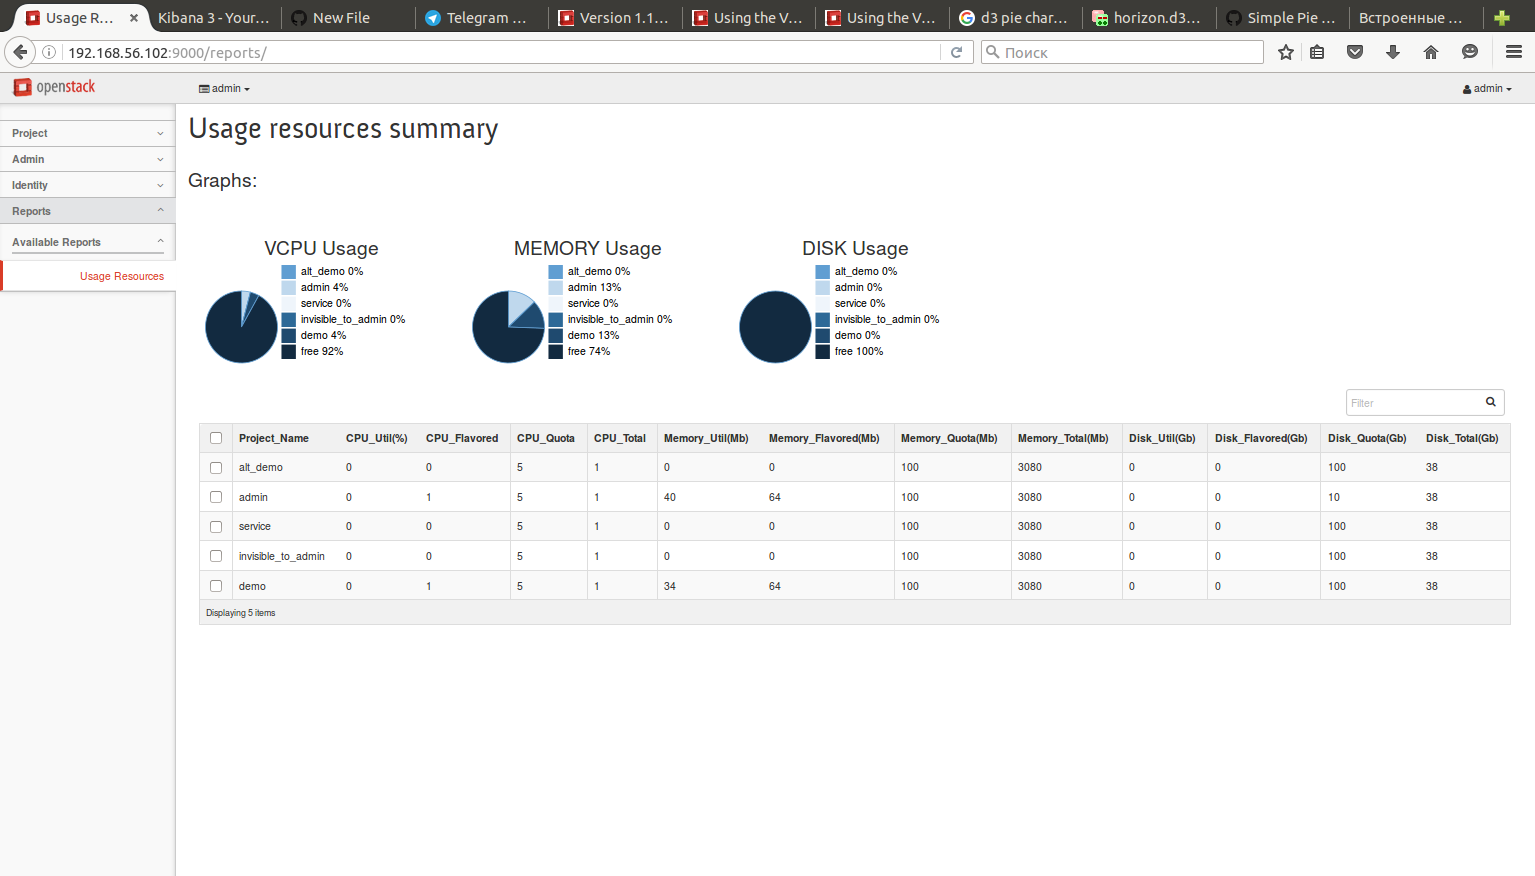
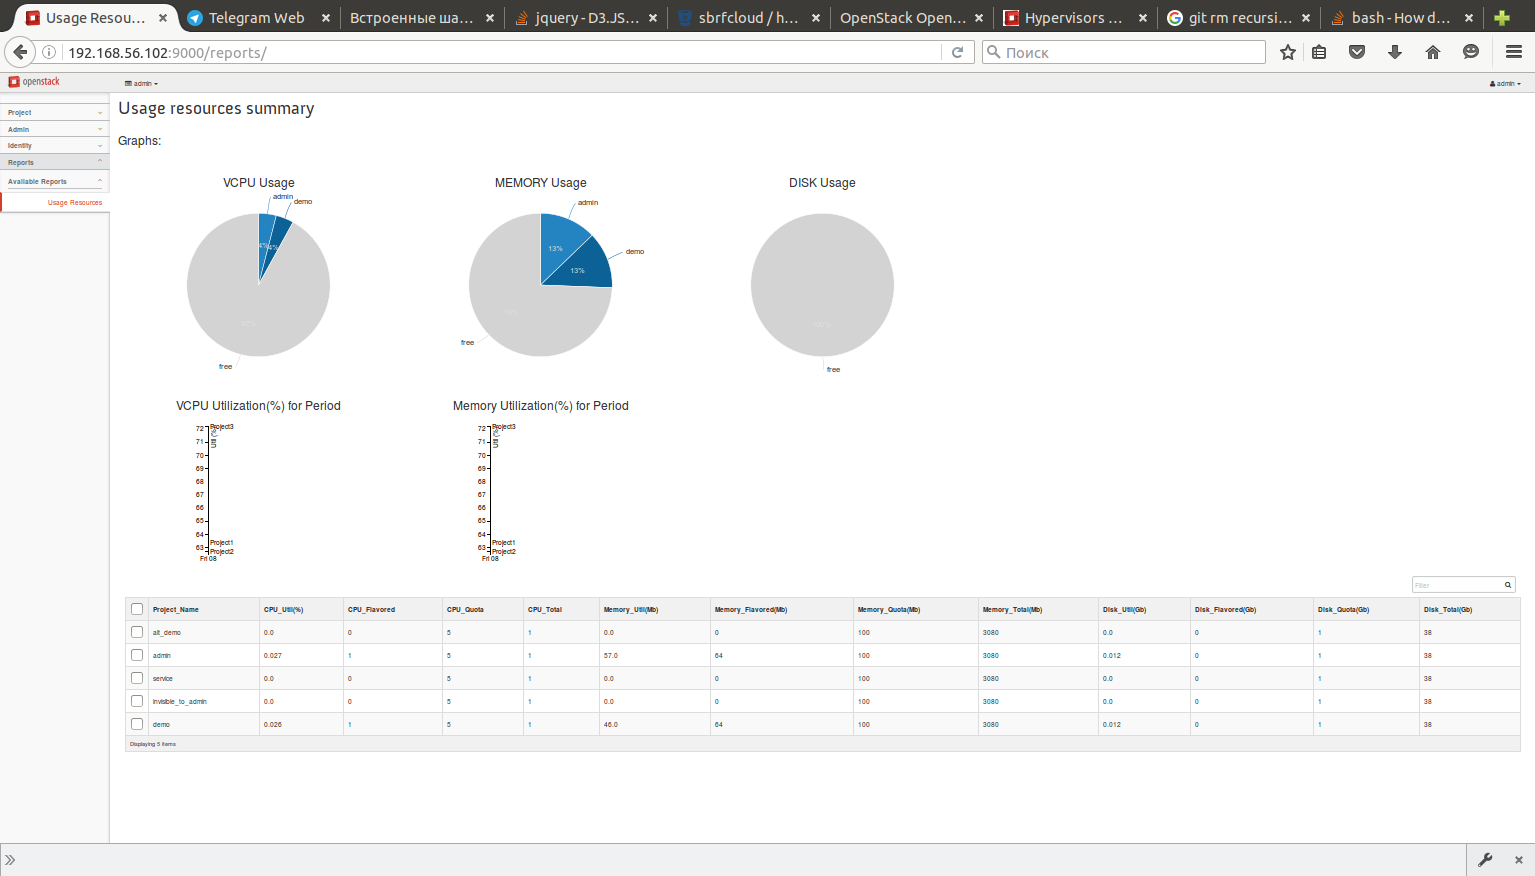
.

diff --git a/usageresources/templates/usageresources/index.html b/usageresources/templates/usageresources/index.html
@@ -8,6 +8,25 @@
 <script src="/static/d3/d3.v3.min.js" charset="utf-8"></script>
 <script src="/static/d3/d3pie.js" charset="utf-8"></script>
 
+<style>
+    .axis path,
+    .axis line {
+      fill: none;
+      stroke: #000;
+      shape-rendering: crispEdges;
+    }
+    
+    .x.axis path {
+      display: none;
+    }
+    
+    .line {
+      fill: none;
+      stroke: steelblue;
+      stroke-width: 1.5px;
+    }
+</style>
+
 {% endblock page_header %}
 
 {% block main %}
@@ -30,6 +49,13 @@
 
 </div>
 
+<div class="d3_quota_bar">
+<h3>VCPU Utilization(%) for Period</h3>
+<div id="cpu_util"></div></div>
+<div class="d3_quota_bar">
+<h3>Memory Utilization(%) for Period</h3>
+<div id="mem_util"></div></div>
+
 <div class="row-fluid">
 <div class="col-sm-12">
 {{ table.render }}
@@ -42,16 +68,16 @@ var graph_count = 3;
 var graphs = ["cpu","mem","disk"];
 var content = [];
 
-content[0] = [{% for tenant in stats %}{label:"{{tenant.name}}",value:{{tenant.cpu_flavored}}},{% endfor %}{label:"free",value:{{cpu_quota_free}}}];
-content[1] = [{% for tenant in stats %}{label:"{{tenant.name}}",value:{{tenant.memory_flavored}}},{% endfor %}{label:"free",value:{{memory_quota_free}}}];
-content[2] = [{% for tenant in stats %}{label:"{{tenant.name}}",value:{{tenant.disk_flavored}}},{% endfor %}{label:"free",value:{{disk_quota_free}}}];
+content[0] = [{% for tenant in stats %}{label:"{{tenant.name}}",value:{{tenant.cpu_flavored}}},{% endfor %}{label:"free",value:{{cpu_quota_free}},color:"#d3d3d3"}];
+content[1] = [{% for tenant in stats %}{label:"{{tenant.name}}",value:{{tenant.memory_flavored}}},{% endfor %}{label:"free",value:{{memory_quota_free}},color:"#d3d3d3"}];
+content[2] = [{% for tenant in stats %}{label:"{{tenant.name}}",value:{{tenant.disk_flavored}}},{% endfor %}{label:"free",value:{{disk_quota_free}},color:"#d3d3d3"}];
 
-for (var i=0;i<graph_count;i++)
+for (var i = 0; i < graph_count; i++)
 {
 var pie = new d3pie(graphs[i], {
 	header: {
 		title: {
-			text: graphs[i]
+			text:""
 		}
 	},
         labels: {
@@ -85,6 +111,138 @@ var pie = new d3pie(graphs[i], {
 
 </script>
 
+<script>
+
+var graph_count = 2;
+var graphs = ["#cpu_util","#mem_util"];
+var data_util = [];
+
+data_util[0] = "\
+date	Project1	Project2	Project3\n\
+20160408	63.4	62.7	72.2";
+
+data_util[1] = "\
+date	Project1	Project2	Project3\n\
+20160408	63.4	62.7	72.2";
+
+for (var i = 0; i < graph_count; i++)
+{
+   var margin = {
+        top: 20,
+        right: 80,
+        bottom: 30,
+        left: 50
+      },
+      width = 300 - margin.left - margin.right,
+      height = 300 - margin.top - margin.bottom;
+
+    var parseDate = d3.time.format("%Y%m%d").parse;
+    var x = d3.time.scale().range([0, width]);
+    var y = d3.scale.linear().range([height, 0]);
+    var color = d3.scale.category10();
+    var xAxis = d3.svg.axis().scale(x).orient("bottom");
+    var yAxis = d3.svg.axis().scale(y).orient("left");
+
+    var line = d3.svg.line()
+      .interpolate("basis")
+      .x(function(d) {
+        return x(d.date);
+      })
+      .y(function(d) {
+        return y(d.util);
+      });
+
+    var svg = d3.select(graphs[i]).append("svg")
+      .attr("width", width + margin.left + margin.right)
+      .attr("height", height + margin.top + margin.bottom)
+      .append("g")
+      .attr("transform", "translate(" + margin.left + "," + margin.top + ")");
+
+    var data = d3.tsv.parse(data_util[i]);
+
+    color.domain(d3.keys(data[0]).filter(function(key) {
+      return key !== "date";
+    }));
+
+    data.forEach(function(d) {
+      d.date = parseDate(d.date);
+    });
+
+    var projects = color.domain().map(function(name) {
+      return {
+        name: name,
+        values: data.map(function(d) {
+          return {
+            date: d.date,
+            util: +d[name]
+          };
+        })
+      };
+    });
+
+    x.domain(d3.extent(data, function(d) {
+      return d.date;
+    }));
+
+    y.domain([
+      d3.min(projects, function(c) {
+        return d3.min(c.values, function(v) {
+          return v.util;
+        });
+      }),
+      d3.max(projects, function(c) {
+        return d3.max(c.values, function(v) {
+          return v.util;
+        });
+      })
+    ]);
+
+    svg.append("g")
+      .attr("class", "x axis")
+      .attr("transform", "translate(0," + height + ")")
+      .call(xAxis);
+
+    svg.append("g")
+      .attr("class", "y axis")
+      .call(yAxis)
+      .append("text")
+      .attr("transform", "rotate(-90)")
+      .attr("y", 6)
+      .attr("dy", ".71em")
+      .style("text-anchor", "end")
+      .text("Util (%)");
+
+    var project = svg.selectAll(".project")
+      .data(projects)
+      .enter().append("g")
+      .attr("class", "project");
+
+    project.append("path")
+      .attr("class", "line")
+      .attr("d", function(d) {
+        return line(d.values);
+      })
+      .style("stroke", function(d) {
+        return color(d.name);
+      });
+
+    project.append("text")
+      .datum(function(d) {
+        return {
+          name: d.name,
+          value: d.values[d.values.length - 1]
+        };
+      })
+      .attr("transform", function(d) {
+        return "translate(" + x(d.value.date) + "," + y(d.value.util) + ")";
+      })
+      .attr("x", 3)
+      .attr("dy", ".35em")
+      .text(function(d) {
+        return d.name;
+      });
+};
+
+</script>
+
 {% endblock %}
-
-

diff --git a/usageresources/views.py b/usageresources/views.py
@@ -1,4 +1,6 @@
 import logging
+import re
+import time
 
 from horizon import views
 from horizon import tables
@@ -16,6 +18,7 @@ LOG = logging.getLogger(__name__)
 class IndexView(tables.DataTableView):
     table_class = InstancesTable
     template_name = 'reports/usageresources/index.html'
+    hvs_load_avg = []
 
     def get_data(self):
             instances, has_more0 = api.nova.server_list(self.request,all_tenants=True)
@@ -29,6 +32,11 @@ class IndexView(tables.DataTableView):
             qs = { "cores":0, "ram":0, "gigabytes":0 }
 
             for hv in hypervisor_list:
+               uptime = api.nova.hypervisor_uptime(self.request, hv)._info
+               loadavg = uptime['uptime']
+               (val1,val2,val3,min1,min5,min15) = loadavg.split(',')
+               (val3,min1) = min1.split(':')
+               self.hvs_load_avg.append([{ "timestamp": time.time(), "hv_hostname":hv.hypervisor_hostname, "1min":min1, "5min":min5, "15min":min15 }])
                for key, value in hv.to_dict().iteritems():
                    if key in ("local_gb","memory_mb","vcpus"):
                       totals[str(key)] = value
@@ -121,6 +129,7 @@ class IndexView(tables.DataTableView):
                 context["disk_free"] -= tenant.disk_flavored
 
             context["stats"] = ten_list
+            context["hvs_load_avg"] = self.hvs_load_avg
 
             return context
 
